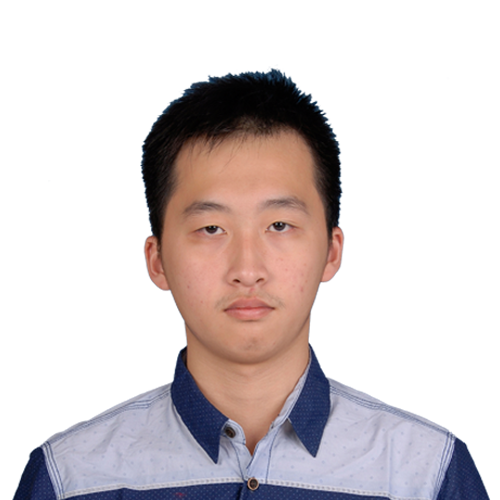
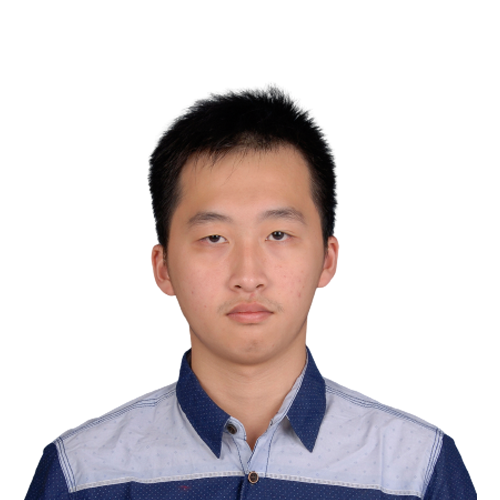
Change profile pic

diff --git a/index.html b/index.html
@@ -191,7 +191,7 @@
           <div class="home-img">
             <div class="img-box">
               <img
-                src="img/avatar-1.png"
+                src="img/profile-pic-2.png"
                 alt="profile-pic"
                 class="outer-shadow"
               />
@@ -214,7 +214,7 @@
             <div class="about-img">
               <div class="img-box inner-shadow">
                 <img
-                  src="img/avatar-1.png"
+                  src="img/profile-pic-2.png"
                   class="outer-shadow"
                   alt="profile-pic"
                 />
